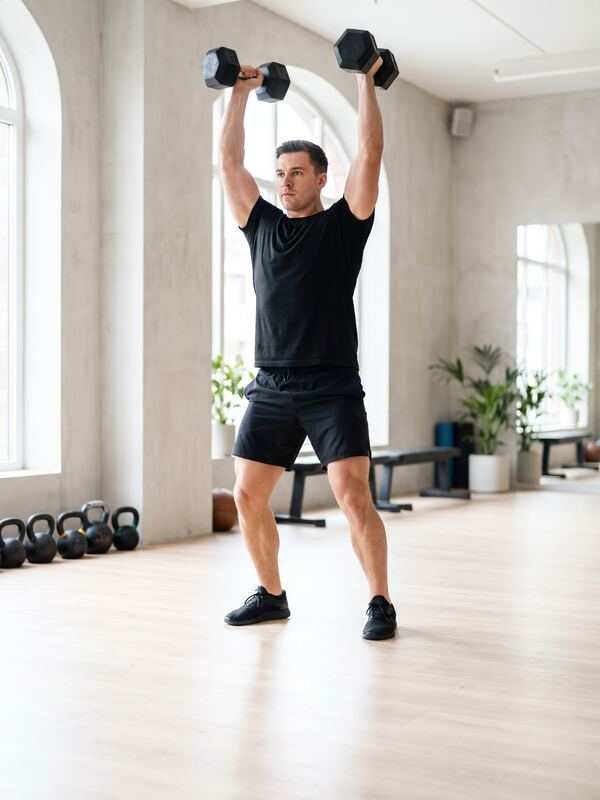
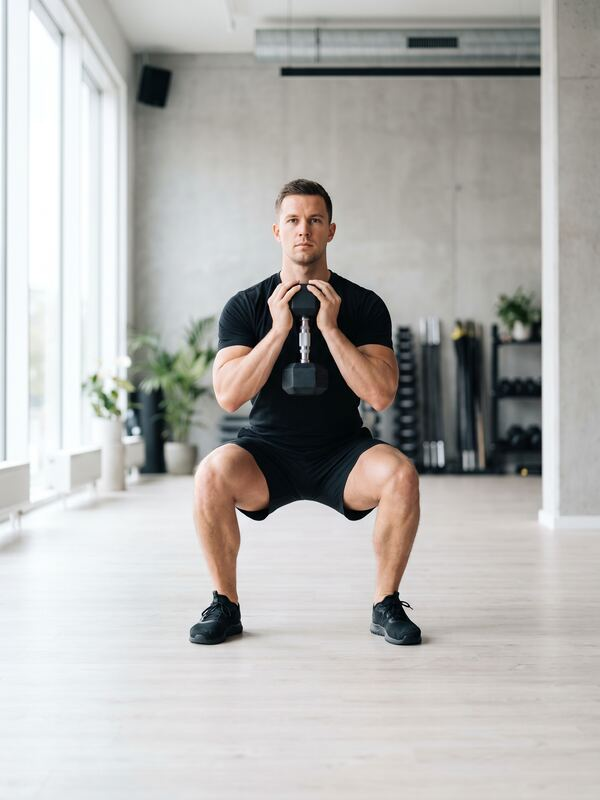
style: fotky partií podle cviků z appky, vycentrované a zpříma

diff --git a/src/lib/focusImages.ts b/src/lib/focusImages.ts
@@ -17,8 +17,8 @@
 //   focus-triceps.jpg     (zatím chybí → použije se focus-arms.jpg)
 //   focus-calves.jpg      lýtka
 //
-// Sada 15. 10. 2026: jednotný styl (světlá posilovna, denní světlo z oken, šedý beton),
-// vygenerováno v Higgsfieldu (Nano Banana), originály ve vaultu pumplo/assets/focus-2026-10-15-svetle.
+// Sada 15. 10. 2026: cviky z appky (goblet dřep, hip thrust, leg press, tlak s jednoručkami, stahování, tlak nad hlavu, bicepsový zdvih na kladce, zdvih kolen ve visu, běžecký pás, výpony na lýtka), vycentrované, světlá posilovna,
+// vygenerováno v Higgsfieldu (Nano Banana), originály ve vaultu pumplo/assets/focus-2026-10-15-cviky.
 //
 // Hodnota null = fotka zatím není, dlaždice ukáže ikonu na barvě appky.
 // Když soubor chybí nebo se nenačte, dlaždice taky spadne na ikonu (onError).
